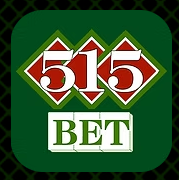
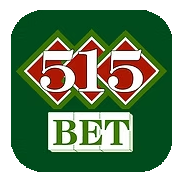
icones
alguns recortes nas imagens

Changed region(s): [[0.0, 0.0, 1.0, 1.0]]

diff --git a/index.html b/index.html
@@ -8,19 +8,24 @@
     <script src="https://cdn.jsdelivr.net/npm/bootstrap@5.3.4/dist/js/bootstrap.bundle.min.js" integrity="sha384-YUe2LzesAfftltw+PEaao2tjU/QATaW/rOitAq67e0CT0Zi2VVRL0oC4+gAaeBKu" crossorigin="anonymous"></script>
     <script src="https://cdn.jsdelivr.net/npm/@popperjs/core@2.11.8/dist/umd/popper.min.js" integrity="sha384-I7E8VVD/ismYTF4hNIPjVp/Zjvgyol6VFvRkX/vR+Vc4jQkC+hVqc2pM8ODewa9r" crossorigin="anonymous"></script>
     <script src="https://cdn.jsdelivr.net/npm/bootstrap@5.3.4/dist/js/bootstrap.min.js" integrity="sha384-Re460s1NeyAhufAM5JwfIGWosokaQ7CH15ti6W5Y4wC/m4eJ5opJ2ivohxVM05Wd" crossorigin="anonymous"></script>
+    <link rel="stylesheet" href="https://cdnjs.cloudflare.com/ajax/libs/font-awesome/6.7.2/css/all.min.css" integrity="sha512-Evv84Mr4kqVGRNSgIGL/F/aIDqQb7xQ2vcrdIwxfjThSH8CSR7PBEakCr51Ck+w+/U6swU2Im1vVX0SVk9ABhg==" crossorigin="anonymous" referrerpolicy="no-referrer" />
   </head>
   <style>
     body{
-        background-color:black;
-        color:white
+        background-image: url("cassino.jpg");
+        background-repeat: no-repeat;
+        background-position: center;
+        background-size: cover;
     }
     .link{
       width: 100%;
       height: 100%;
       cursor: pointer;
+      border-radius: 13pt;
+      background: transparent;
     }
     .card{
-      background-color: rgba(255, 255, 255, 0.8);
+      background-color: rgba(255, 255, 255, 0.5);
     }
     #wwp:hover{
       cursor: pointer;
@@ -36,17 +41,77 @@
     }
   </style>
   <body class="d-flex flex-column vh-100">
-    <div class="h1 text-center text-warning m-3">
+    <div class="h1 text-center text-warning fw-bold m-3">
       PACTO DE OURO.bet
     </div>
 
     <div class="card my-3 p-3 d-flex w-75 mx-auto" id="wwp">
-      <div class="h4 text-center m-0">
+      <div class="h3 text-center m-0 d-flex align-items-center justify-content-around fw-bold">
+        <span>
+          <i class="fa-brands text-success fa-whatsapp" style="font-size: 30pt;"></i>
+        </span>
           GRUPO DISPONÍVEL PARA SUPORTE
+        <span>
+          <i class="fa-brands text-success fa-whatsapp" style="font-size: 30pt;"></i>
+        </span>
       </div>
     </div>
 
     <div class="card my-3 py-3 w-75 mx-auto" id="top10">
+      <div class="row g-3 justify-content-center">
+        <div class="col-custom-5">
+          <div class="link card text-center">
+            <img src="456bet.png" alt="">
+          </div>
+        </div>
+        <div class="col-custom-5">
+          <div class="link card text-center">
+            <img src="515bet.png" alt="">
+          </div>
+        </div>
+        <div class="col-custom-5">
+          <div class="link card text-center">
+            <img src="icon_3.png" alt="">
+          </div>
+        </div>
+        <div class="col-custom-5">
+          <div class="link card text-center">
+            <img src="icon_4.png" alt="">
+          </div>
+        </div>
+        <div class="col-custom-5">
+          <div class="link card text-center">
+            <img src="icon_5.png" alt="">
+          </div>
+        </div>
+        <div class="col-custom-5">
+          <div class="link card text-center">
+            <img src="icon_6.png" alt="">
+          </div>
+        </div>
+        <div class="col-custom-5">
+          <div class="link card text-center">
+            <img src="icon_7.png" alt="">
+          </div>
+        </div>
+        <div class="col-custom-5">
+          <div class="link card text-center">
+            <img src="icon_8.png" alt="">
+          </div>
+        </div>
+        <div class="col-custom-5">
+          <div class="link card text-center">
+            <img src="icon_9.png" alt="">
+          </div>
+        </div>
+        <div class="col-custom-5">
+          <div class="link card text-center">
+            <img src="icon_10.png" alt=""></div>
+        </div>
+      </div>
+    </div>
+    
+    <div class="card my-3 py-3 w-75 mx-auto" id="top20">
       <div class="row g-3 justify-content-center">
         <div class="col-custom-5">
           <div class="link card text-center">icon 1</div>
@@ -80,120 +145,41 @@
         </div>
       </div>
     </div>
-    
-
-    <div class="card my-3 py-3 w-75 mx-auto" id="top20">
-      <div class="row  p-1">
-        <div class="col-6 col-md-2 mb-3">
-          <div class="link card">
-            icon
-          </div>
-        </div>
-        <div class="col-6 col-md-2 mb-3">
-          <div class="link card">
-            icon
-          </div>
-        </div>
-        <div class="col-6 col-md-2 mb-3">
-          <div class="link card">
-            icon
-          </div>
-        </div>
-        <div class="col-6 col-md-2 mb-3">
-          <div class="link card">
-            icon
-          </div>
-        </div>
-        <div class="col-6 col-md-2 mb-3">
-          <div class="link card">
-            icon
-          </div>
-        </div>
-      </div>
-      <div class="row  p-1">
-        <div class="col-6 col-md-2 mb-3">
-          <div class="link card">
-            icon
-          </div>
-        </div>
-        <div class="col-6 col-md-2 mb-3">
-          <div class="link card">
-            icon
-          </div>
-        </div>
-        <div class="col-6 col-md-2 mb-3">
-          <div class="link card">
-            icon
-          </div>
-        </div>
-        <div class="col-6 col-md-2 mb-3">
-          <div class="link card">
-            icon
-          </div>
-        </div>
-        <div class="col-6 col-md-2 mb-3">
-          <div class="link card">
-            icon
-          </div>
-        </div>
-      </div>
-    </div>
 
     <div class="card my-3 py-3 w-75 mx-auto" id="top30">
-      <div class="row  p-1">
-        <div class="col-6 col-md-2 mb-3">
-          <div class="link card">
-            icon
-          </div>
+      <div class="row g-3 justify-content-center">
+        <div class="col-custom-5">
+          <div class="link card text-center">icon 1</div>
         </div>
-        <div class="col-6 col-md-2 mb-3">
-          <div class="link card">
-            icon
-          </div>
+        <div class="col-custom-5">
+          <div class="link card text-center">icon 2</div>
         </div>
-        <div class="col-6 col-md-2 mb-3">
-          <div class="link card">
-            icon
-          </div>
+        <div class="col-custom-5">
+          <div class="link card text-center">icon 3</div>
         </div>
-        <div class="col-6 col-md-2 mb-3">
-          <div class="link card">
-            icon
-          </div>
+        <div class="col-custom-5">
+          <div class="link card text-center">icon 4</div>
         </div>
-        <div class="col-6 col-md-2 mb-3">
-          <div class="link card">
-            icon
-          </div>
+        <div class="col-custom-5">
+          <div class="link card text-center">icon 5</div>
         </div>
-      </div>
-      <div class="row  p-1">
-        <div class="col-6 col-md-2 mb-3">
-          <div class="link card">
-            icon
-          </div>
+        <div class="col-custom-5">
+          <div class="link card text-center">icon 6</div>
         </div>
-        <div class="col-6 col-md-2 mb-3">
-          <div class="link card">
-            icon
-          </div>
+        <div class="col-custom-5">
+          <div class="link card text-center">icon 7</div>
         </div>
-        <div class="col-6 col-md-2 mb-3">
-          <div class="link card">
-            icon
-          </div>
+        <div class="col-custom-5">
+          <div class="link card text-center">icon 8</div>
         </div>
-        <div class="col-6 col-md-2 mb-3">
-          <div class="link card">
-            icon
-          </div>
+        <div class="col-custom-5">
+          <div class="link card text-center">icon 9</div>
         </div>
-        <div class="col-6 col-md-2 mb-3">
-          <div class="link card">
-            icon
-          </div>
+        <div class="col-custom-5">
+          <div class="link card text-center">icon 10</div>
         </div>
       </div>
     </div>
+
   </body>
 </html>
